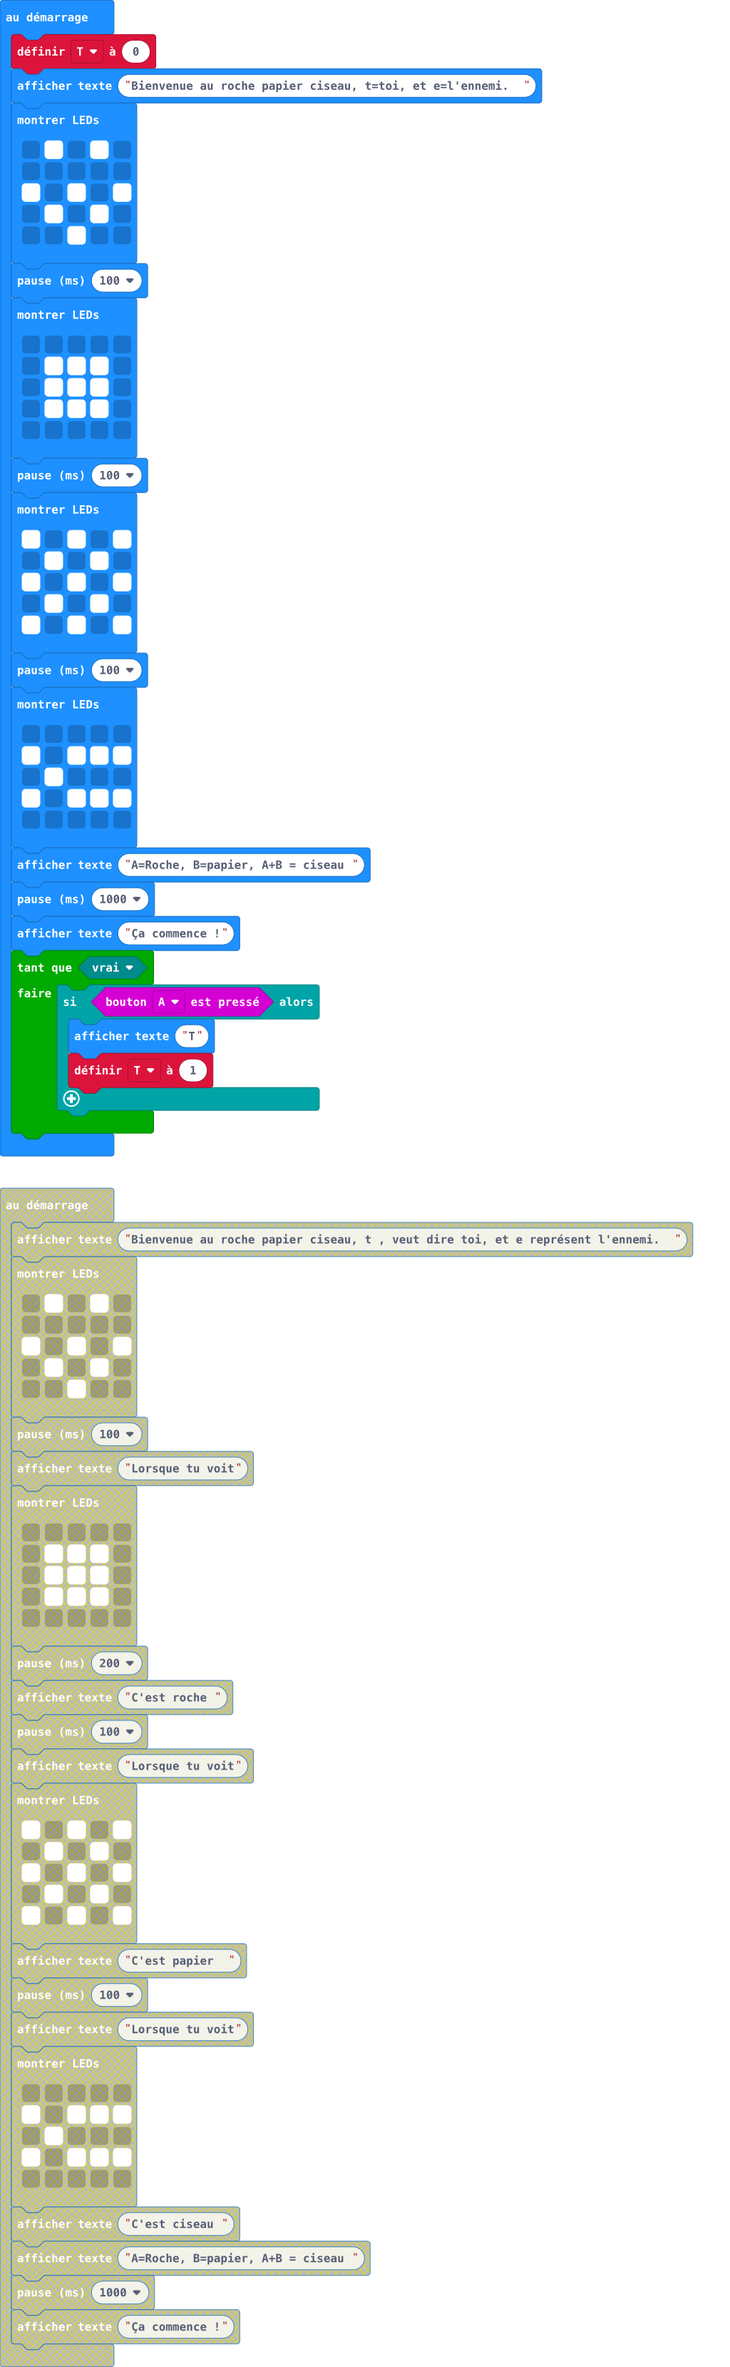
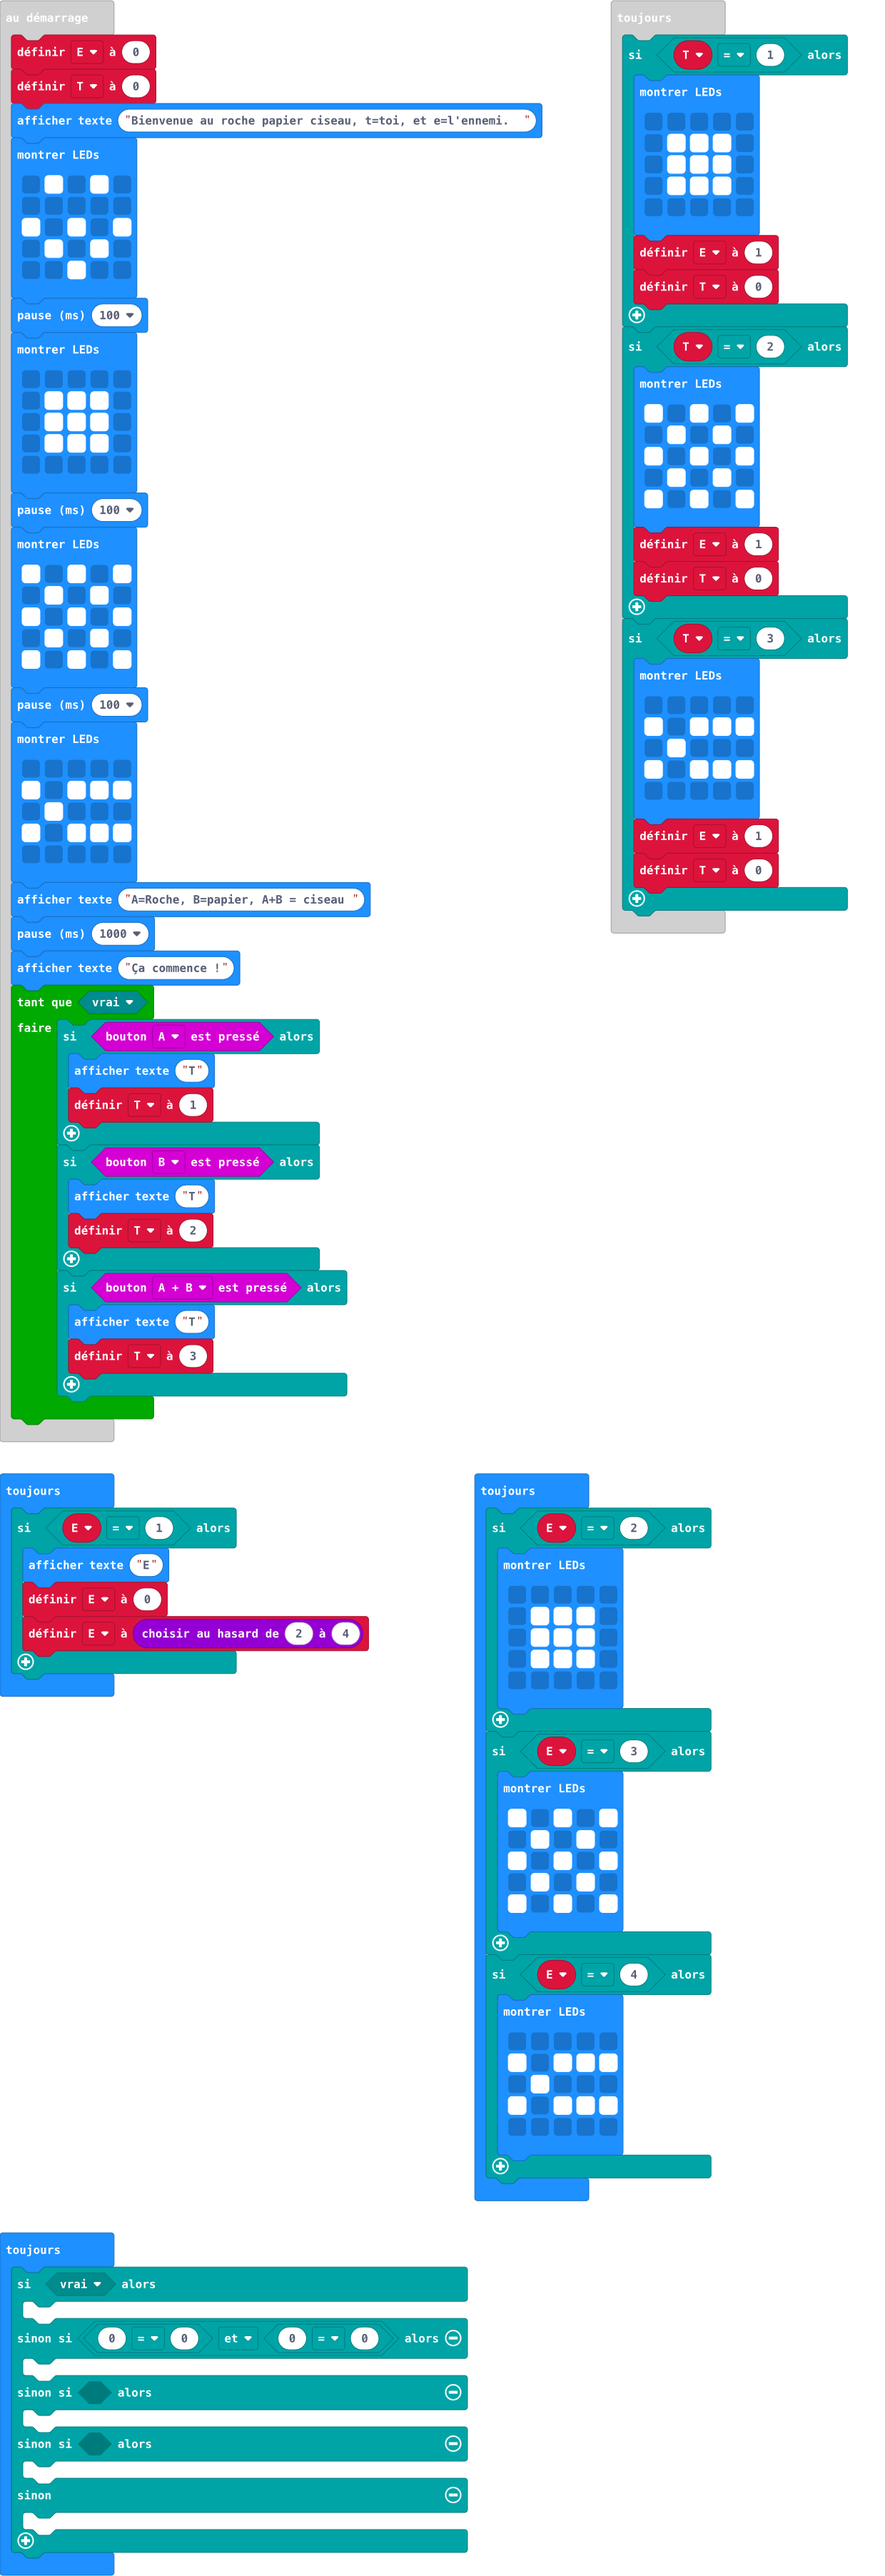
Mise à jour main.blocks, main.ts

diff --git a/main.ts b/main.ts
@@ -1,3 +1,4 @@
+let E = 0
 let T = 0
 basic.showString("Bienvenue au roche papier ciseau, t=toi, et e=l'ennemi.  ")
 basic.showLeds(`
@@ -39,7 +40,96 @@ while (true) {
         basic.showString("T")
         T = 1
     }
+    if (input.buttonIsPressed(Button.B)) {
+        basic.showString("T")
+        T = 2
+    }
+    if (input.buttonIsPressed(Button.AB)) {
+        basic.showString("T")
+        T = 3
+    }
 }
 basic.forever(function () {
-	
+    if (T == 1) {
+        basic.showLeds(`
+            . . . . .
+            . # # # .
+            . # # # .
+            . # # # .
+            . . . . .
+            `)
+        E = 1
+        T = 0
+    }
+    if (T == 2) {
+        basic.showLeds(`
+            # . # . #
+            . # . # .
+            # . # . #
+            . # . # .
+            # . # . #
+            `)
+        E = 1
+        T = 0
+    }
+    if (T == 3) {
+        basic.showLeds(`
+            . . . . .
+            # . # # #
+            . # . . .
+            # . # # #
+            . . . . .
+            `)
+        E = 1
+        T = 0
+    }
+})
+basic.forever(function () {
+    if (E == 1) {
+        basic.showString("E")
+        E = 0
+        E = randint(2, 4)
+    }
+})
+basic.forever(function () {
+    if (E == 2) {
+        basic.showLeds(`
+            . . . . .
+            . # # # .
+            . # # # .
+            . # # # .
+            . . . . .
+            `)
+    }
+    if (E == 3) {
+        basic.showLeds(`
+            # . # . #
+            . # . # .
+            # . # . #
+            . # . # .
+            # . # . #
+            `)
+    }
+    if (E == 4) {
+        basic.showLeds(`
+            . . . . .
+            # . # # #
+            . # . . .
+            # . # # #
+            . . . . .
+            `)
+    }
+})
+basic.forever(function () {
+    if (true) {
+    	
+    } else if (0 == 0 && 0 == 0) {
+    	
+    } else if (false) {
+    	
+    } else if (false) {
+    	
+    } else {
+    	
+    }
 })
